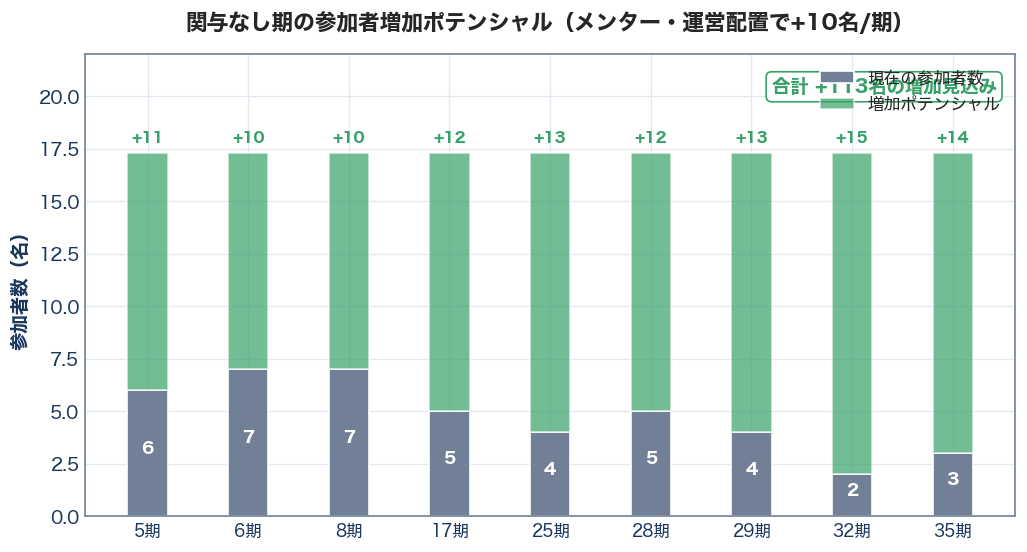
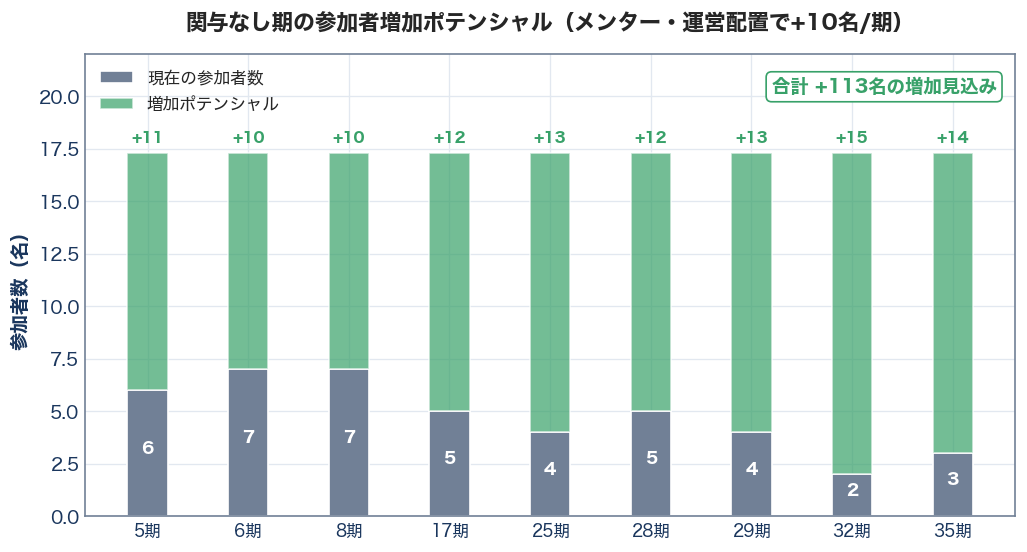
fix: 参加者増加ポテンシャルグラフの凡例重なりを修正
凡例を右上から左上に移動し、テキストボックスとの重なりを解消。

Changed region(s): [[0.0935, 0.1232, 0.2804, 0.2156], [0.779, 0.1232, 0.9659, 0.2156]]

diff --git a/generate_charts.py b/generate_charts.py
@@ -730,7 +730,7 @@ def chart_participation_potential():
     ax.set_title('関与なし期の参加者増加ポテンシャル（メンター・運営配置で+10名/期）', fontsize=13, fontweight='bold', pad=15)
     ax.set_xticks(x)
     ax.set_xticklabels(classes, fontsize=10)
-    ax.legend(loc='upper right', fontsize=10)
+    ax.legend(loc='upper left', fontsize=10)
     ax.set_ylim(0, 22)
 
     # 合計増加見込み
